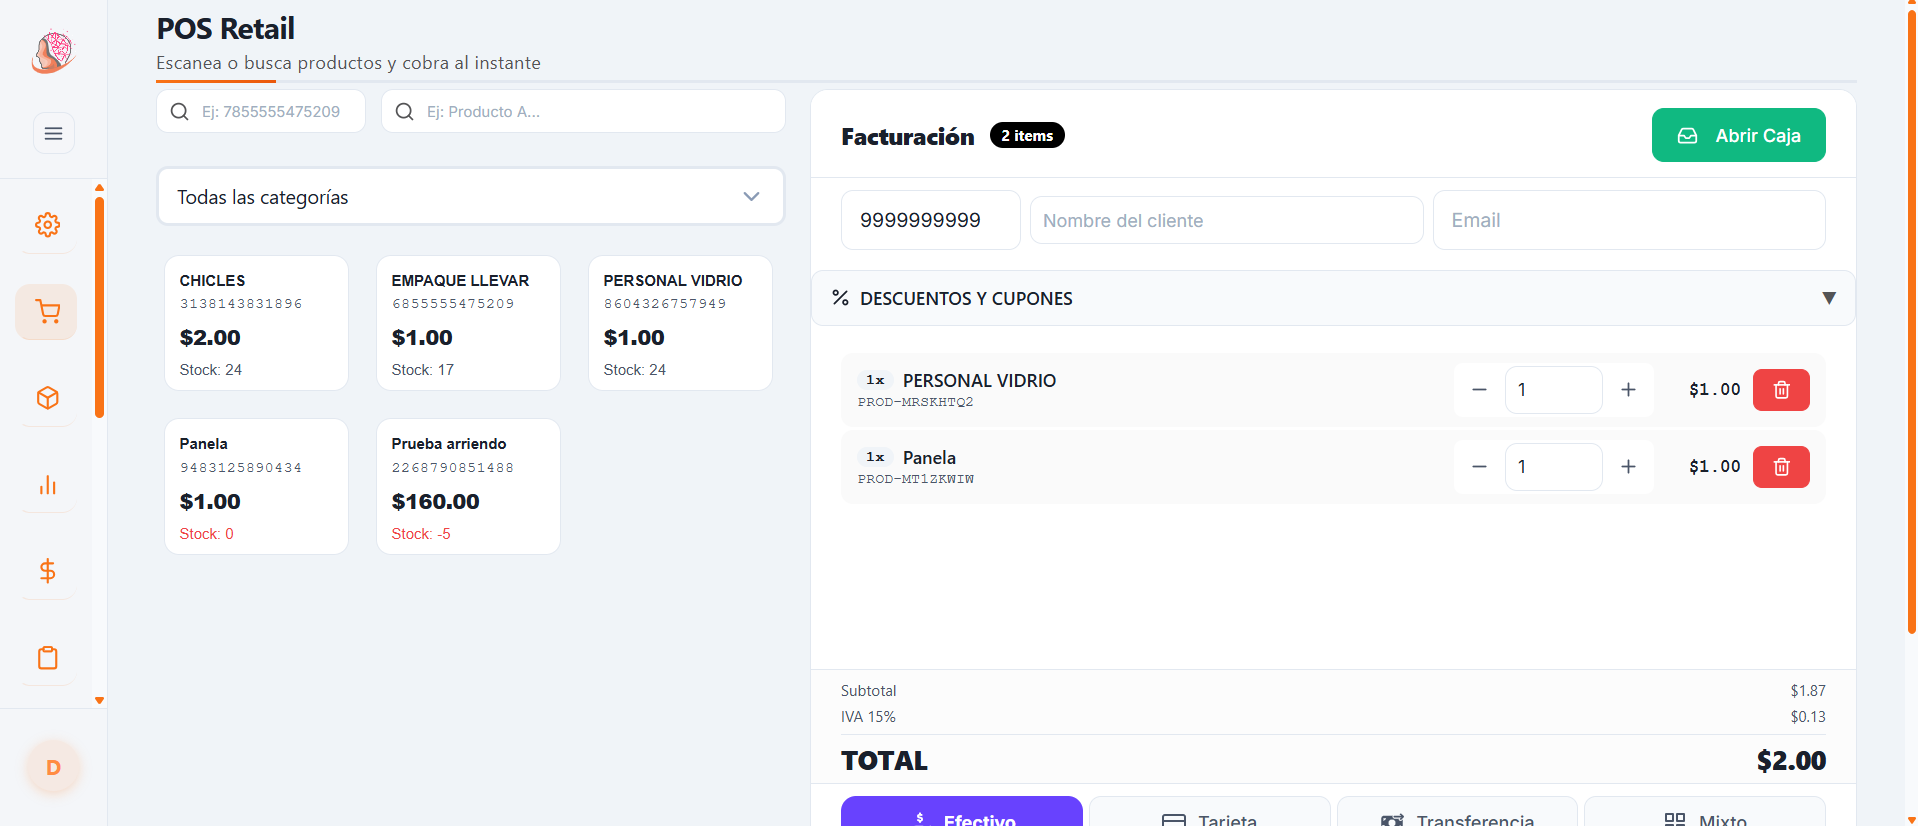
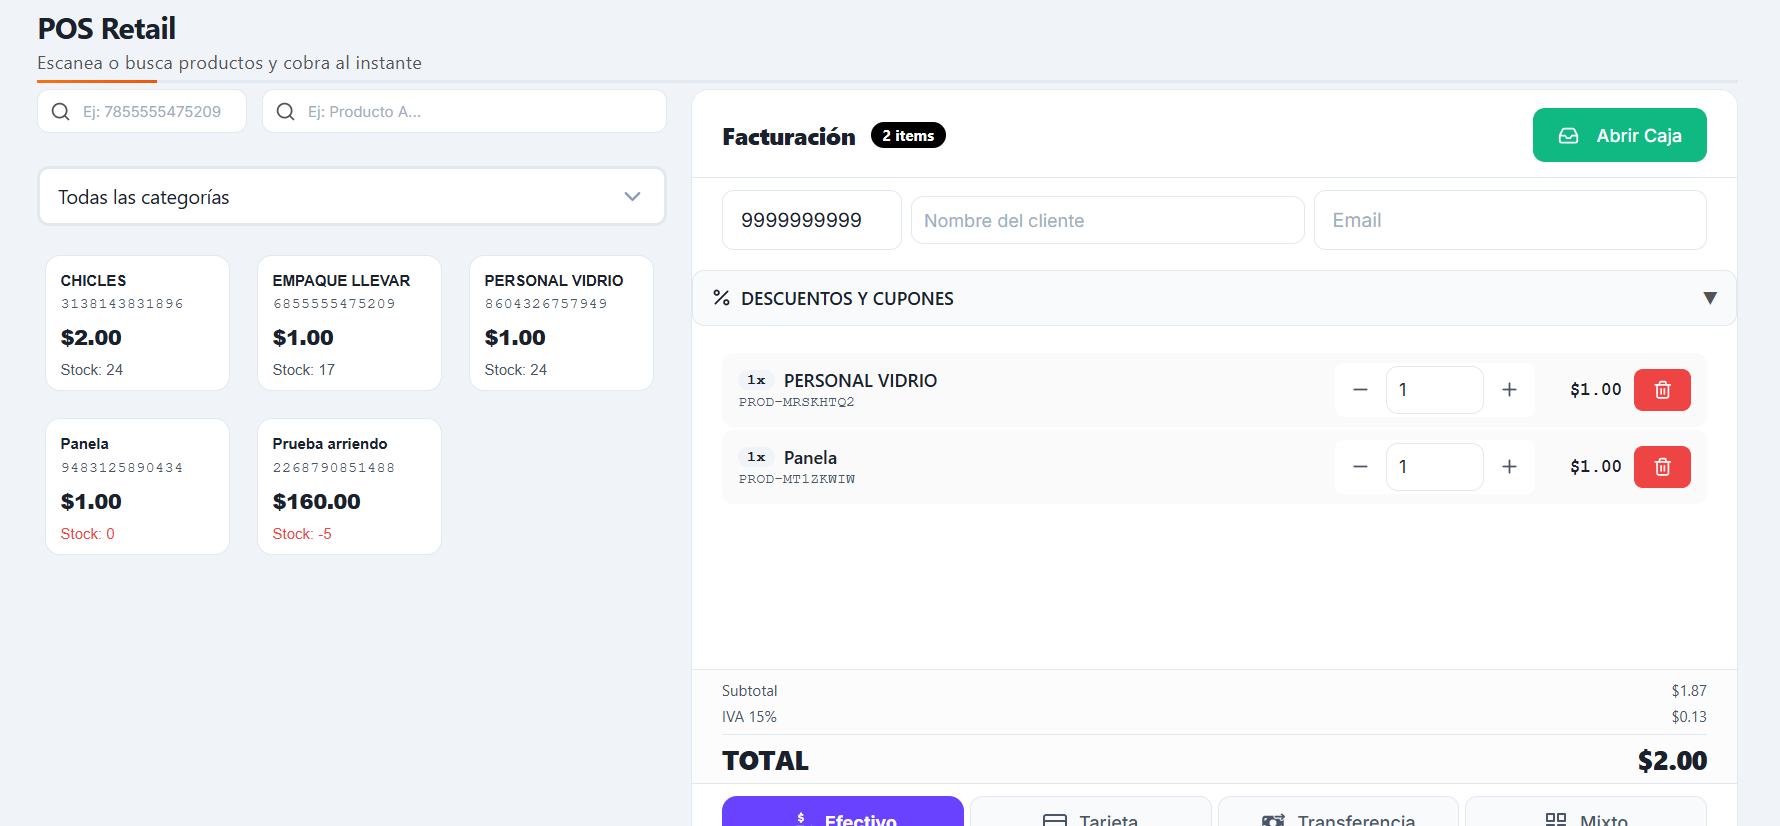
Mod. footer y esilos de landing

diff --git a/public/index.html b/public/index.html
@@ -29,13 +29,13 @@
     <!-- ============================================ -->
     <!-- OPEN GRAPH (Facebook, WhatsApp, LinkedIn)    -->
     <!-- ============================================ -->
-    <meta property="og:title" content="IDON - Plataforma de Gestión Multinegocio" />
+    <meta property="og:title" content="IDON Control | Inventario, Ventas y Operaciones" />
     <meta
       property="og:description"
       content="Administra múltiples negocios en un solo lugar con IDON. Solución moderna, escalable y eficiente."
     />
     <meta property="og:type" content="website" />
-    <meta property="og:url" content="https://www.idonplataform.site/" />
+    <meta property="og:url" content="https://www.idonplataform.site" />
     <meta property="og:site_name" content="IDON" />
     <meta property="og:locale" content="es_ES" />
 
@@ -46,7 +46,7 @@
     <meta property="og:image:type" content="image/png" />
     <meta property="og:image:width" content="1200" />
     <meta property="og:image:height" content="630" />
-    <meta property="og:image:alt" content="IDON - Plataforma de Gestión Multinegocio" />
+    <meta property="og:image:alt" content="IDON Control | Inventario, Ventas y Operaciones" />
 
     <!-- Fallback: si no encuentra PNG, usar SVG -->
     <meta property="og:image" content="https://www.idonplataform.site/IDON_2.svg" />
@@ -57,7 +57,7 @@
     <!-- TWITTER CARDS (Twitter/X)                    -->
     <!-- ============================================ -->
     <meta name="twitter:card" content="summary_large_image" />
-    <meta name="twitter:title" content="IDON - Plataforma de Gestión Multinegocios" />
+    <meta name="twitter:title" content="IDON Control | Inventario, Ventas y Operaciones" />
     <meta
       name="twitter:description"
       content="Administra múltiples negocios en un solo lugar con IDON. Solución moderna, escalable y eficiente."
@@ -71,7 +71,7 @@
     <!-- ============================================ -->
     <meta name="robots" content="index, follow" />
     <meta name="googlebot" content="index, follow" />
-    <link rel="canonical" href="https://www.idonplataform.site/" />
+    <link rel="canonical" href="https://www.idonplataform.site" />
 
     <!-- Manifest -->
     <link rel="manifest" href="%PUBLIC_URL%/manifest.json" />
@@ -98,13 +98,12 @@
 
   <body>
     <noscript>
-      IDON Plataform requiere JavaScript para funcionar correctamente. Por favor, actívalo en tu navegador.
     </noscript>
 
     <div id="root"></div>
 
     <!--
-      IDON - Plataforma de Gestión Multinegocio
+      IDON Control | Inventario, Ventas y Operaciones
       Plataforma diseñada para escalar y adaptarse a distintos tipos de negocios.
       © 2026 IDON. Todos los derechos reservados.
     -->

diff --git a/src/styles/General/Pages/LandingPage.css b/src/styles/General/Pages/LandingPage.css
@@ -233,22 +233,20 @@
   display: flex;
   gap: 1.5rem;
   justify-content: center;
-  align-items: center;
-  margin: 2rem 0 3rem;
+  align-items: stretch; 
   flex-wrap: wrap;
 }
 
 .landing-image {
-  max-width: 100%;
-  height: auto;
-  width: 100%;
-  max-width: 600px;
-  height: 300px;
+  flex: 1 1 calc(50% - 0.75rem); /* Ocupa la mitad del ancho menos la mitad del gap */
+  max-width: calc(50% - 0.75rem);
+  height: auto; /* Altura automática */
+  aspect-ratio: 16 / 9; /* Proporción deseada, ajusta según tus imágenes */
+  object-fit: contain;
   border-radius: 5px;
   box-shadow: var(--shadow-md);
   transition: var(--transition);
   border: 1px solid var(--border-light);
-  object-fit: cover; /* Asegura que la imagen no se deforme */
 }
 
 .landing-image:hover {
@@ -716,27 +714,6 @@
   border-radius: var(--radius-sm);
   box-shadow: var(--shadow-sm);
   border-left: 4px solid var(--primary);
-}
-
-/* Ajuste para el footer (si se usa en landing) - recomendación */
-.saas-footer {
-  padding: 1.5rem 5%;
-  flex-wrap: wrap;
-}
-
-.saas-footer__links {
-  gap: 1rem;
-  flex-wrap: wrap;
-}
-
-@media (max-width: 600px) {
-  .saas-footer {
-    flex-direction: column;
-    text-align: center;
-  }
-  .saas-footer__links {
-    justify-content: center;
-  }
 }
 
 /* ============================================================

diff --git a/src/components/common/Footer.js b/src/components/common/Footer.js
@@ -11,6 +11,7 @@ export default function Footer({ variant = 'dark' }) {
         <span className="saas-footer__logo">
           <span className="brand-id">ID</span>
           <span className="saas-footer__logo-on">ON</span>
+          <span className="brand-id">  Control</span>
         </span>
         <span className="saas-footer__version">v2.0</span>
         <span className="saas-footer__divider" />

diff --git a/src/styles/General/Layouts/Footer.css b/src/styles/General/Layouts/Footer.css
@@ -8,7 +8,7 @@
   align-items: center;
   justify-content: space-between;
   gap: var(--space-4, 16px);
-  padding: var(--space-3, 11px) var(--space-6, 24px);
+  padding: var(--space-2, 11px) var(--space-6, 24px);
   width: 100%;
   box-sizing: border-box;
   flex-shrink: 0;
